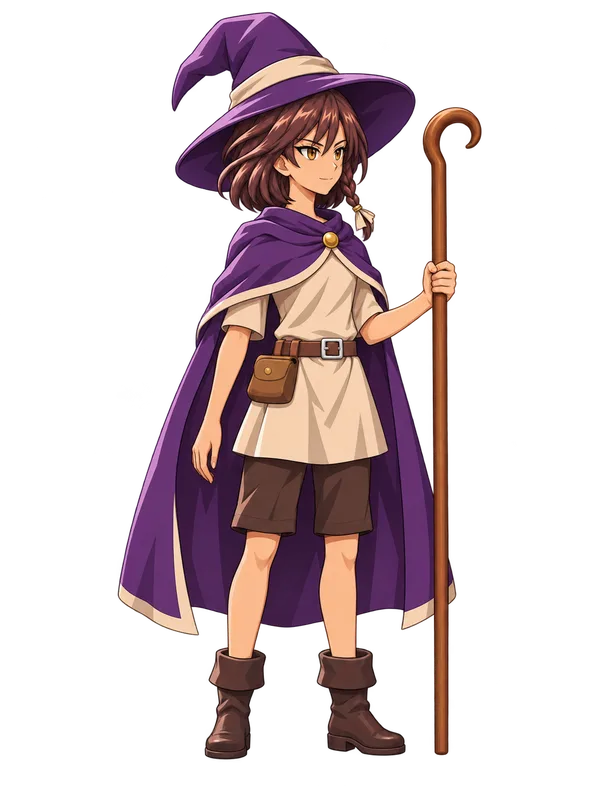
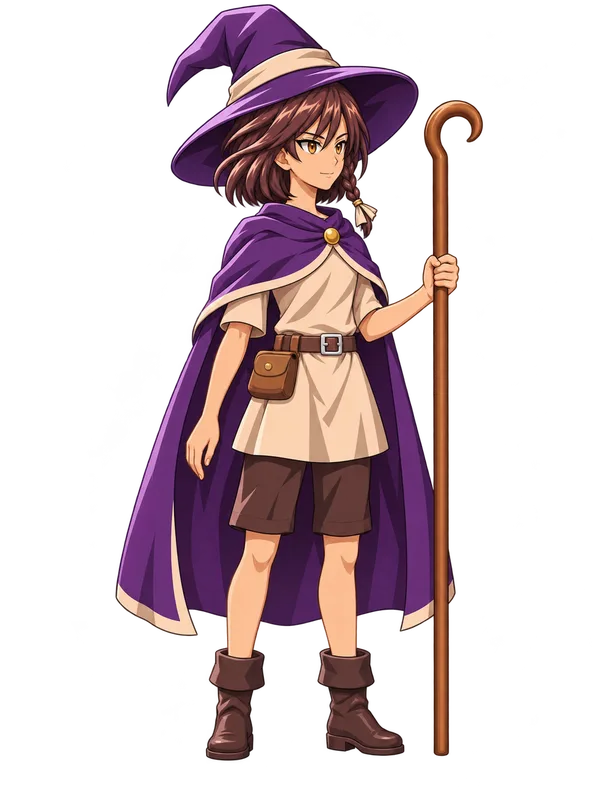
五地新事件（可消耗藥水換報酬）、修事件扣魔力負數、劍士法師立繪重畫上線（v9.7）
Claude-Session: https://claude.ai/code/session_014oWtzGzKSt7ogC6fVd5Sdp

diff --git a/sw.js b/sw.js
@@ -1,4 +1,4 @@
-const C='ao-art-v26';
+const C='ao-art-v27';
 self.addEventListener('install',e=>self.skipWaiting());
 self.addEventListener('activate',e=>e.waitUntil(caches.keys().then(ks=>Promise.all(ks.filter(k=>k.startsWith('ao-art')&&k!==C).map(k=>caches.delete(k)))).then(()=>self.clients.claim())));
 const get=(req,n)=>fetch(req).catch(err=>n>0?new Promise(r=>setTimeout(r,800)).then(()=>get(req,n-1)):Promise.reject(err));

diff --git a/DEV_NOTES.md b/DEV_NOTES.md
@@ -149,6 +149,9 @@
 - banner_fest1 還是舊畫風。
 
 ## 已完成（自動排程）
+- v9.7：五張地圖各加一個事件（p_rain 突來的雷雨、f_fox 捕獸夾上的狐狸、m_rail 失控的礦車、s_dove 凍僵的信鴿、c_altar 黑霧祭壇）。新增事件選項欄位 `need:[道具,數量]`（`evLack`／`evCostTag`，不夠就 disabled、選了才扣），免檢定付錢選項顯示價格且錢不夠不能選（`evGoldCost`，修正 0 元也能買裝備）。修 `applyOut` 扣 MP 變負數與顯示「MP +-x」。玩家意見 0 則。
+- 美術：總指揮整張重畫的劍士、法師待機＋站姿男女 8 張審過上線（手部自然、握杖正確），sw.js v27。遊俠男女正在 `_draft` 繪製中，下輪審。
+- 測試（v9.7，換裝帶藥）：Lv1／6／12／18／22 共 16 場全自動 0 pageerror、0 缺圖。Lv12 主攻：劍士 ATK 105、遊俠 100、法師 MAG 146、神官 118；精英戰最低 HP 41～79%，首領（神官 Lv18）最低 26%。Lv22 大魔導 MAG 418、咒術 321、主教 256、聖殿 253；狂戰 ATK 206、刺客 227、神射 225、騎士 191。
 - v9.6：五張地圖各加一個專屬事件（p_cart 翻倒的貨車、f_bees 滴蜜的大樹、m_gas 發光的瓦斯、s_sled 被雪埋住的雪橇、c_cell 地牢裡的人；含花錢換裝備的免檢定選項）。總指揮重畫的狂戰士新服裝 44 張（男女動作 38＋頭像 6）審過上線，sw.js v26。玩家意見 0 則（內建瀏覽器讀 /api/fb）。
 - 測試（v9.6，換裝帶藥）：16 場全自動 0 pageerror、0 缺圖。Lv22 主攻：大魔導 MAG 459、咒術 314、聖殿 266、主教 202；狂戰 ATK 265、刺客 225、神射 219、騎士 218。藥水起始 pot2×6／eth2×4，跑完多半不減反增（事件與掉落補給）。
 - 美術：總指揮上一輪「站姿手部修正」34 張是 ImageGen 局部補片貼回原圖，違反「手要整張重畫」規則（已在 fc8b6d9 上線）。2026-11-20 已派工請總指揮把狂戰士以外 30 張整張重畫，下輪審圖。
